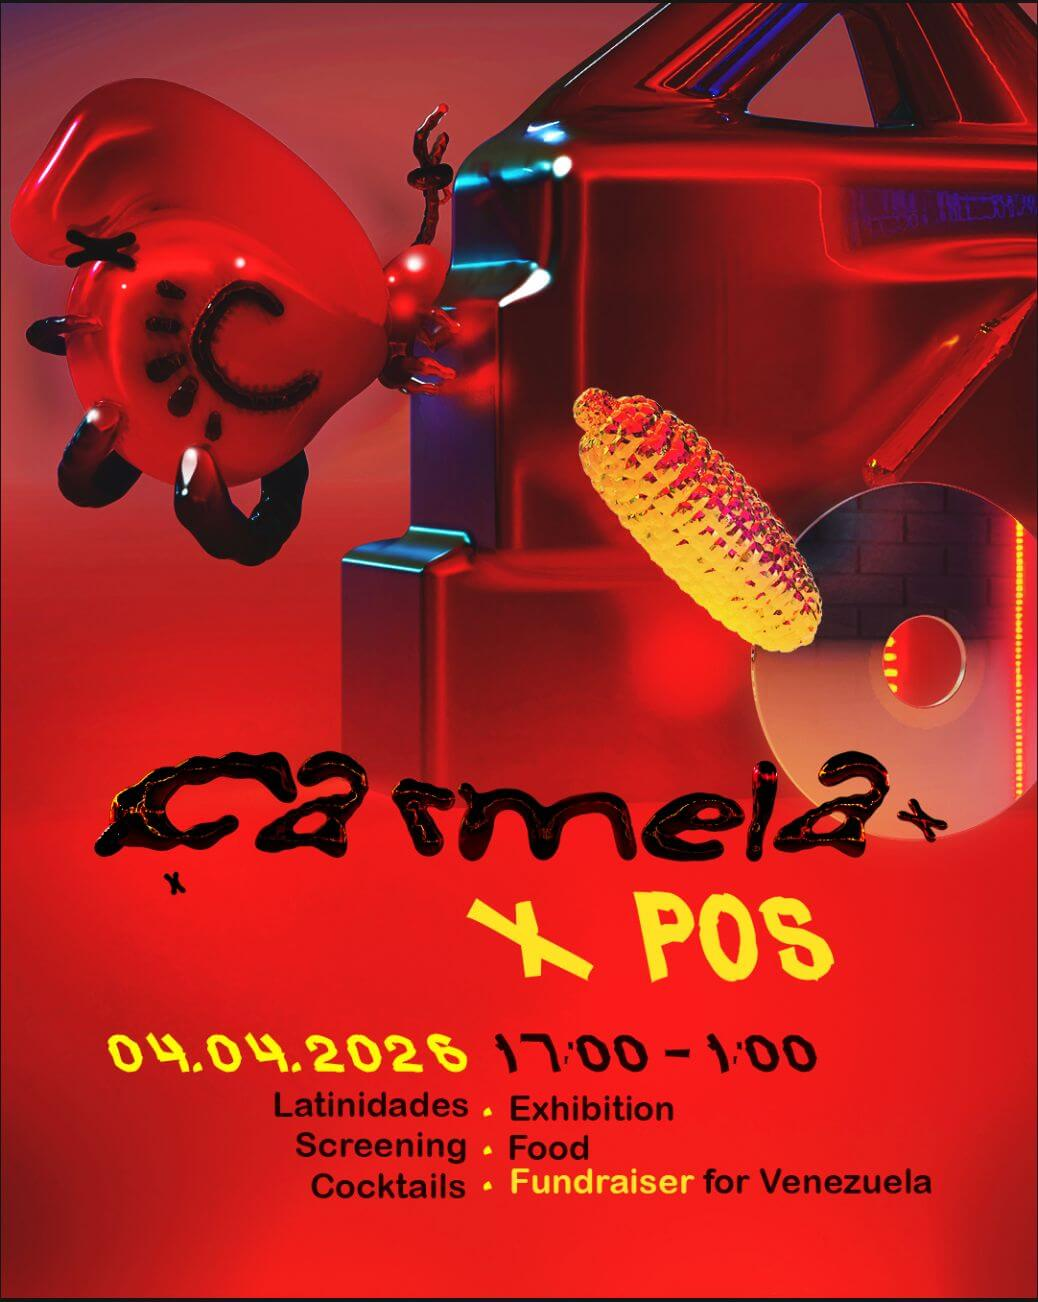
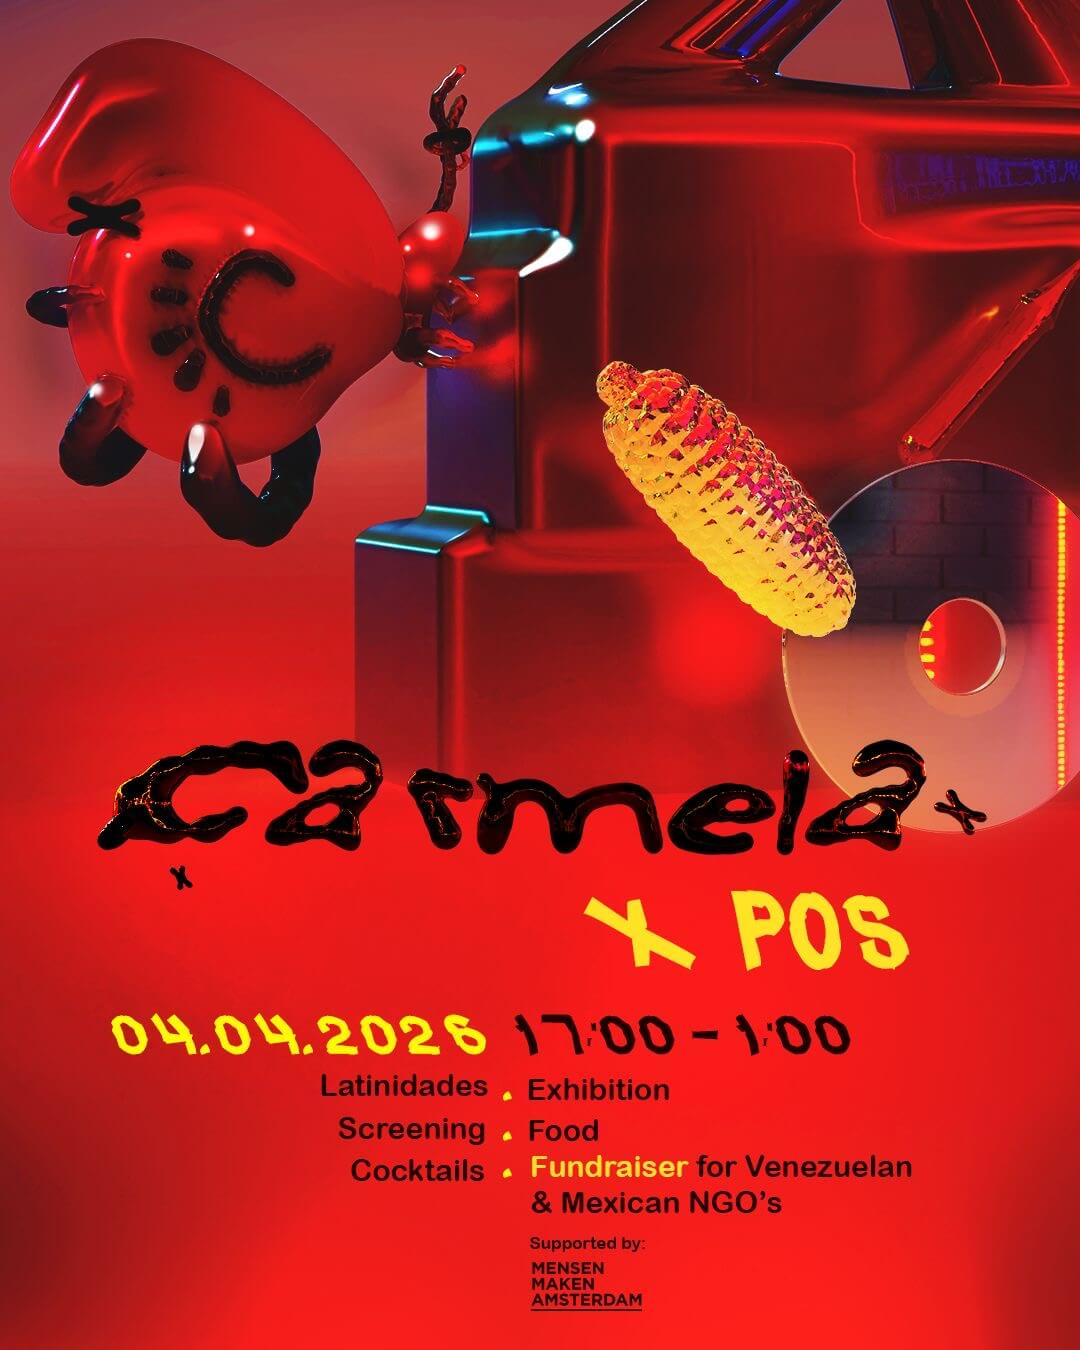
added member desceription

diff --git a/src/data/data.ts b/src/data/data.ts
@@ -42,7 +42,7 @@ export const members = [
     id: '1',
     title: 'Monse Alvarez',
     category: 'Marketing, New Media & Digital Comms',
-    description: 'A refreshing hard seltzer brand with a strategic marketing approach and distinctive visual identity.',
+    description: 'Oversees Carmela’s overall communications strategy, ensuring a cohesive narrative across all platforms. She leads content development and manages digital communication channels. Her',
     image: '/images/monse.png',
     nationality:'México',
     igLink: 'https://instagram.com/pokemonse',
@@ -52,7 +52,7 @@ export const members = [
     id: '2',
     title: 'Adrian Figueroa',
     category: 'Music & Cultural Programming',
-    description: 'Cheri (Cherry in Japanese) is a multi-level Japanese-fusion tapas dining and drinks upstairs and an underground nightclub.',
+    description: 'Event production and project processes manager, ensuring that each programme is executed with intention, clarity, and strong organizational flow.',
     image: '/images/adrian.png',
     nationality:'México',
     igLink: 'https://instagram.com/ukab.__dj',
@@ -62,7 +62,7 @@ export const members = [
     id: '5',
     title: 'Valentina Marino',
     category: 'Experience Designer & Developer',
-    description: 'Myles Club for Runners is a vibrant community of running enthusiasts who share a passion for fitness and social connection.',
+    description: 'Leading creative digital strategies, enhancing our online presence, and ensuring accessible, engaging web experiences. Her technical skills and creative vision help translate Carmela’s identity into innovative, community-centered digital touchpoints.',
     image: '/images/val.png',
     nationality:'Colombia',
     igLink: 'https://instagram.com/valmarino.a', 
@@ -72,7 +72,7 @@ export const members = [
     id: '3',
     title: 'Juliana Erazo',
     category: 'Filmmaker & Visual Artist',
-    description: 'El Sabor - "The Flavour" Tapas Bar is a traditional Spanish restaurant and bar with a contemporary twist.',
+    description: 'Manages Carmela’s visual identity and presence through various digital and traditional channels. She is responsible for creating artwork and visual assets that capture the collective’s identity and values.',
     image: '/images/juliana.png',
     nationality:'Colombia',
     igLink: 'https://instagram.com/julianaerazo__',
@@ -83,7 +83,7 @@ export const members = [
     id: '4',
     title: 'Patrick Kimber',
     category: 'DJ & Producer',
-    description: 'Leap Frog Landscapes is a modern and fresh Landscaping company that prides themselves on being vibrant and friendly.',
+    description: 'supports musical curation and artist booking, bringing deep knowledge of Latin American electronic and experimental music. His role focuses on shaping Carmela’s sonic identity through high-quality diverse programming that reflects contemporary Latin American creativity.',
     image: '/images/patrick.png',
     nationality:'Chile',
     igLink: 'https://instagram.com/patrickcameron__audio', 
@@ -94,7 +94,7 @@ export const members = [
     id: '6',
     title: 'Mike Federico',
     category: 'DJ & Producer',
-    description: 'Back 2 Balance Counseling empowers individuals towards holistic wellness through compassionate and personalized mental health counseling.',
+    description: 'Contributes to the curatorial vision by bridging Latin American and European artistic contexts. He supports artist booking, programme design, and the development of culturally diverse and multidisciplinary lineups.',
     image: '/images/mike.png',
     nationality:'Netherlands | Colombia',
     igLink: 'https://instagram.com/_mikefederico___', 
@@ -104,7 +104,7 @@ export const members = [
     id: '7',
     title: 'Andrea Fischer',
     category: 'Cultural Event Logistics & Coordination',
-    description: 'First Thing Coffee House is a casual cafe venue located in suburbs with a cozy and welcoming energy.',
+    description: 'Supports all aspects of event logistics, including hospitality, onsite coordination, and material preparation. Her work ensures operational efficiency and helps create warm, culturally rooted environments for participants and audiences.',
     image: '/images/andrea.png',
     nationality:'Chile',
     igLink: 'https://instagram.com/andreafischert', 
@@ -115,7 +115,7 @@ export const members = [
     id: '8',
     title: 'Silvia Oviedo',
     category: 'Artist & Researcher',
-    description: 'First Thing Coffee House is a casual cafe venue located in suburbs with a cozy and welcoming energy.',
+    description: 'responsible for event logistics, coordinating food, drinks, and essential operational tasks to ensure each event runs smoothly. She plays a key role in creating welcoming, safe, and well-organized community spaces.',
     image: '/images/silvia.png',
     nationality:'Colombia',
     igLink: 'https://instagram.com/silvisalvaje', 

diff --git a/src/sections/Members.tsx b/src/sections/Members.tsx
@@ -75,7 +75,7 @@ export default function Members() {
             viewport={{ once: true }}
           >
             {/* Project Image */}
-            <div className="relative aspect-[3/4] rounded-md overflow-hidden mb-4 ">
+            <div className="relative aspect-[3/4] rounded-xl overflow-hidden mb-4 ">
               <Image
                 src={member.image}
                 alt={member.title}
@@ -104,7 +104,7 @@ export default function Members() {
               <h3 className="text-lg font-medium">{member.title}</h3>
               <p className="text-[9px] text-neutral-950 uppercase tracking-wider">{member.nationality}</p>
               <a href={`${member.igLink}`} className="text-[9px] text-neutral-950 tracking-wider">{member.igHandle}</a>
-              <p className="text-sm text-neutral-950 line-clamp-2 font-myriad">{member.description}</p>
+              <p className="text-xs text-neutral-950/70 line-clamp-2 font-myriad">{member.description}</p>
             </div>
           </motion.article>
         ))}

diff --git a/src/sections/Events.tsx b/src/sections/Events.tsx
@@ -9,7 +9,7 @@ export default function Events() {
   return (
     <section
       id="events"
-      className="relative pt-24 pb-64 md:pt-20 md:pb-44 overflow-hidden z-[1]"
+      className="relative pt-24 pb-64 md:pt-20 md:pb-56 overflow-hidden z-[1]"
     >
          <div className="absolute inset-0 -z-10">
         <Image
